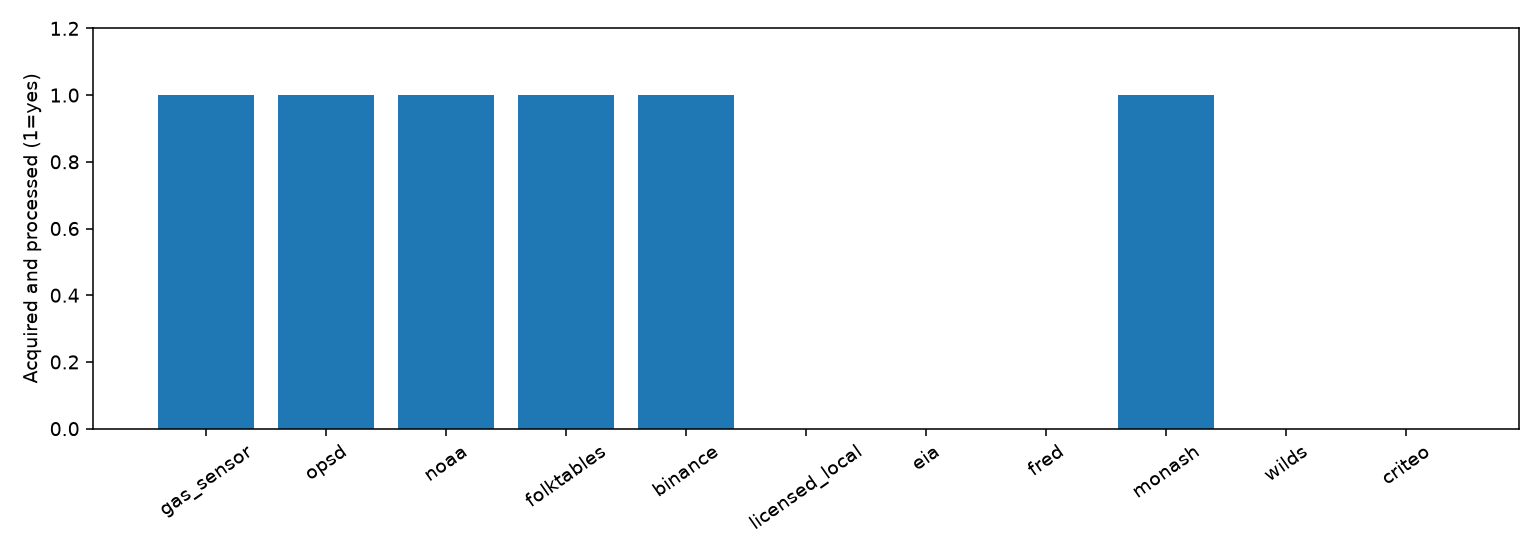
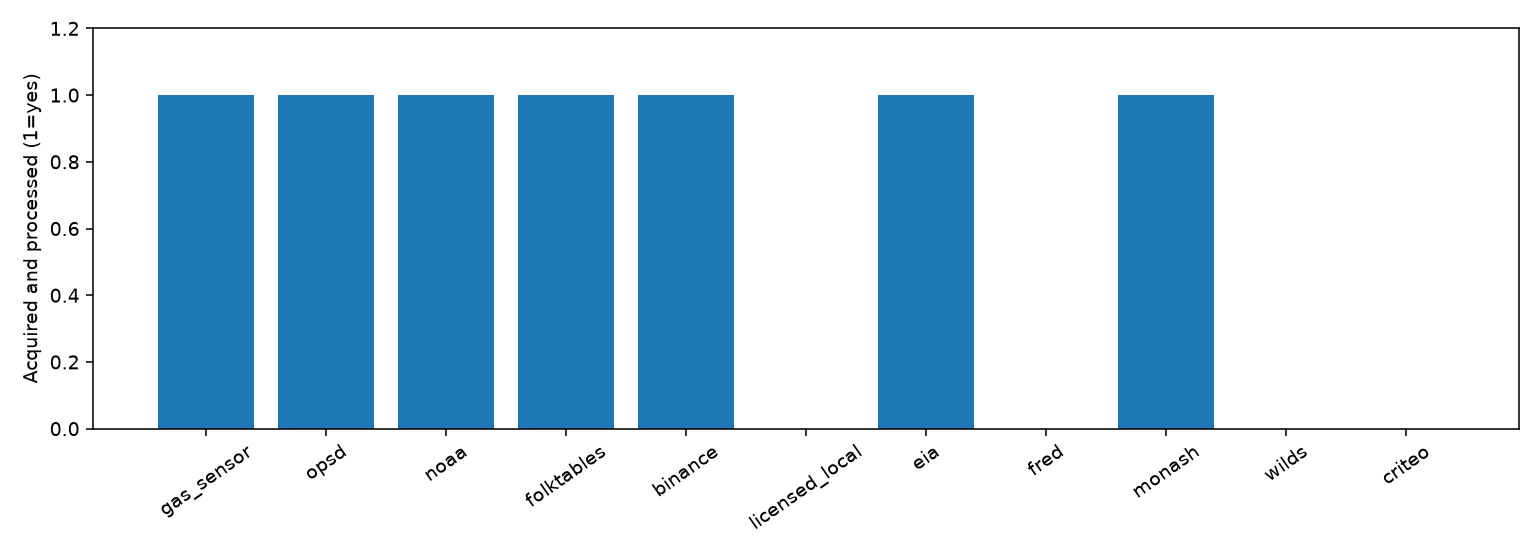
Publish EIA bulk acquisition evidence

Changed region(s): [[0.561, 0.1518, 0.6545, 0.7893]]

diff --git a/docs/phase1_completion_audit.md b/docs/phase1_completion_audit.md
@@ -22,7 +22,7 @@ and decision-stress controls. Full completion is still unproven.
 | E1: Folktables | CA/NY/TX/FL/NJ 2017–2018 panel acquired for all five tasks; 50 immutable task/domain contributions; four retrospective comparison designs per task; train-domain-only diagnostics and aggregate weighted/unweighted reports; compatibility evidence for rejected 2019 sources | Review task/version hashes and all 205 comparison records in `data/reports/folktables_panel`; no survey-design confidence intervals or causal attribution are claimed. The installed package's 2019 schema incompatibility is explicit. |
 | E2: gas | Ten batches, 13,910 rows, 128 features; actual per-batch class/missingness/feature tables and train-only classifier/probability/decision-loss evidence; rebuilt from cached publisher bytes as version `b90bcfbca00879f905f3`, with 13,910 finite class labels and a registered multiclass task spec | Unknown within-batch order prevents temporal inference; IID descriptive SE is explicitly qualified |
 | E3: OPSD | DE/DE-LU + DK_1 hourly/daily task configs with load/wind/solar/prices; overlapping coverage gate, full-day missingness, source definitions/UTC/local offsets and outcome-end purging | Price zones and country load remain distinct; availability unknown; bad early epoch version stays retired |
-| E4: EIA | Credentialed v2 adapter, paging, units/calendar gaps, sanitized snapshots; plus official keyless EBA bulk adapter with explicit 800 MB byte budget, streaming per-series JSON extraction, UTC window filtering, strict hourly horizon and immutable raw checksums; NYIS D/DF/NG/TI subset acquired for 2023-01-01 00 UTC through 2023-01-03 23 UTC, yielding 71 valid next-hour rows in `data/processed/eia/a07144c5f8769536d63c`; archive size 697,661,852 bytes and SHA-256 recorded in its receipt and `data/reports/acquisition_extensions.json` | API key is still required for API v2; broader date windows and respondent coverage require rerunning the full 700 MB archive extraction; historical publication availability remains unknown |
+| E4: EIA | Credentialed v2 adapter, paging, units/calendar gaps, sanitized snapshots; plus official keyless EBA bulk adapter with explicit 800 MB byte budget, streaming per-series JSON extraction, UTC window filtering, strict hourly horizon and immutable raw checksums; NYIS D/DF/NG/TI subset acquired for 2023-01-01 00 UTC through 2023-01-03 23 UTC, yielding 71 valid next-hour rows in `data/processed/eia/005fe168e548968a2d5d`; archive size 697,661,852 bytes and SHA-256 recorded in its receipt and `data/reports/acquisition_extensions.json` | API key is still required for API v2; broader date windows and respondent coverage require rerunning the full 700 MB archive extraction; historical publication availability remains unknown |
 | E5: NOAA | JFK/Boston/Chicago 2023 fixed panel acquired; seven weather/accumulation fields, flags, strict-later same-station outcomes and shared purged event-time splits | Availability remains unknown; irregular source horizons must not be described as strictly hourly forecasts |
 | E6: Monash | Five verified record mappings; TSF parser; official fixed-origin holdouts; M4 hourly, weekly and daily subsets executed with publisher MD5 checks; 20-series weekly/daily subsets preserve declared 13/14-step horizons | Electricity-hourly and weather archives omit `@horizon` and are explicitly refused for forecast conversion until an authoritative horizon is provided; no substituted horizon or invented covariates. Executed counts and source receipts are summarized in `data/reports/monash_execution.json`. |
 | E7: WILDS | Five lazy adapters; real package/metric fixture test; native-equivalent reduction compatibility | Live source certificate expired (upstream issue documented); do not bypass TLS or substitute another benchmark |
@@ -33,7 +33,7 @@ and decision-stress controls. Full completion is still unproven.
 | F: tasks | Registered forecast/quantile/volatility/excess/binary/multiclass tasks; `multi_step_forecast_task` builds past-only fixed-origin vectors with per-step outcome indices and finite-target masks; capacity/cost/abstention/bounded actions; new dataset manifest `task_specs` binds source targets, task kind, horizon semantics, valid-label masks, metrics, availability rules and utility provenance. Fixture-backed row-level mask/horizon checks cover OPSD hourly/daily, EIA, NOAA, Monash official holdouts, Criteo censoring, Binance next-bar returns, Folktables and WILDS; a fresh cached-raw UCI Gas rebuild produced 13,910 finite labels with a multiclass task manifest; FRED is explicitly a revision table, not a forecast task. Actual Monash hourly/daily/weekly fixed-origin horizons 48/14/13 are evaluated by forecast step in `data/reports/monash_forecast_diagnostics.json` | User-supplied/licensed task utilities remain explicitly ungrounded unless provided; real-source label availability is unknown where publishers do not provide verified release times |
 | G: diagnostics | Means/covariance/frequencies/KS, moving-block intervals; regression plot/report; Folktables retrospective group-domain metrics and imposed-cost decision loss; OPSD hourly/daily and three-station NOAA train-only regression, rolling loss, calibration-coverage and moving-block test-loss intervals in `data/reports/time_series_real_diagnostics.json`; Monash/M4 hourly, daily and weekly per-series/per-step Ridge vs naive baselines in `data/reports/monash_forecast_diagnostics.json` (Ridge beats last-value MASE in 8/10, 11/20 and 17/20 series); OPSD/NOAA rerun with half/sqrt/double block-length sensitivity | Time-series diagnostics are retrospective because label availability is unknown; daily OPSD loses to the mean baseline. Monash first-series subsets are deterministic and not population samples. No source-grounded decision utility is available for these continuous tasks; broader task coverage remains open |
 | H: GPU | RTX 4060 Laptop GPU tested on this host; CPU/CUDA float32/64 preservation, repeated-run determinism, statistical distribution parity and preprocessing parity; strict estimated per-chunk workspace bound with fail-fast when one row cannot fit; 36-run CPU/CUDA × float32/float64 × 1,000/5,000/10,000-row chunk sweep with three repeats per cell under a 128 MiB workspace budget in `data/reports/gpu_benchmark.csv`; 100 ms device-wide utilization/memory telemetry and per-repeat PyTorch peak allocation | Only one GPU model is available; device-wide telemetry is coarse/not process-specific, and some short cells produced only 2–4 samples. `memory_mb` excludes Python/Pandas RSS and O(n) schedule arrays. Preserve these scope bounds in future backend changes |
-| I: storage/provenance | Immutable Parquet/JSON, raw checksums/receipts, atomic publication, code hashes; strong ETag/If-Range or publisher-hash resume; length/budget/encoding gates tested; `scripts/audit_raw_provenance.py` checked all 141 raw-file references across 66 manifests, with 141 present checksums matching and zero missing or mismatching files | Repeat this local-byte audit after new acquisitions; unavailable live publisher inputs and publisher identity remain bounded by source-specific conditions under E |
+| I: storage/provenance | Immutable Parquet/JSON, raw checksums/receipts, atomic publication, code hashes; strong ETag/If-Range or publisher-hash resume; length/budget/encoding gates tested; `scripts/audit_raw_provenance.py` checked all 145 raw-file references across 68 manifests after the EIA bulk acquisition, with 145 present checksums matching and zero missing or mismatching files | Repeat this local-byte audit after new acquisitions; unavailable live publisher inputs and publisher identity remain bounded by source-specific conditions under E |
 | J: leakage | Future features/labels, chronological splits, training-only scaling, missingness and UTC/DST tests; storage now re-reads each Parquet row group before publication, checking schema/row invariants, global sample-ID uniqueness, and split chronology across row-group boundaries, with regression tests for duplicate IDs and reversed train/validation times; Criteo replay test confirms same-time requests precede feedback, future outcome edits do not affect requests, and missing delivery assumptions block replay | Extend replay checks to any additional adapter that supplies a verified prediction/feature-availability protocol; broader online calibration and preprocessing-fit protocol review remains |
 | K: statistics | Replicated oracle-risk and selected moment/quantile/autocorrelation tests; rare-event uncertainty corrected; five-seed covariate property report with 108 mechanism/severity/dimension records; target-shift report with 24 mechanism/severity records; five-seed concept residual-law report with 56 records; five-seed independent-probability and empirical Bernoulli calibration tests for nonlinear classification and boundary rotation; temporal stationarity and ten-pattern schedule reports; Monash per-series outcomes | Broaden independent per-generator analytic checks to remaining mechanisms and export additional executed statistical validation evidence |
 | L: reports | Aggregate quality/provenance/readiness/shift/baseline reports and plots rebuilt for 74 stored versions; zero validation errors; synthetic-validation and readiness rows identify immutable versions to disambiguate repeated configurations; NOAA figure visually inspected; historical summary explicitly labelled; fitted decision report regenerated for two policy classes across ten presets × five seeds; Monash fixed-origin report records per-series/per-step metrics for 50 series with manifest checksums and script hash; covariate, concept residual, target-shift and temporal-pattern evidence reports record replicated independent checks with explicit limitations | Complete remaining source/task and independent statistical evidence; immutable versions include historical duplicates and are not independent replicates |

diff --git a/data/reports/data_quality_report.md b/data/reports/data_quality_report.md
@@ -32,6 +32,8 @@ Unknown availability timestamps are retained as unknown. No automatic filling or
 - {"rows": 1000, "unknown_prediction_times": 0, "unknown_label_availability": 0, "missing_targets": 0, "dataset": "concept", "version": "e2461ffd1a6145cc5dd8", "feature_missing_rate": 0.0, "feature_infinite": 0, "min_feature": -2.964528837841651, "max_feature": 3.0885121948602836, "duplicate_feature_target_rows": 0, "ground_truth": "synthetic_known", "attribution": "Inconclusive: descriptive evidence does not identify drift mechanism"}
 - {"rows": 1000, "unknown_prediction_times": 0, "unknown_label_availability": 0, "missing_targets": 0, "dataset": "concept", "version": "e9fbb8e14cecd7a037cc", "feature_missing_rate": 0.0, "feature_infinite": 0, "min_feature": -2.964528837841651, "max_feature": 3.0885121948602836, "duplicate_feature_target_rows": 0, "ground_truth": "synthetic_known", "attribution": "Inconclusive: descriptive evidence does not identify drift mechanism"}
 - {"rows": 1000, "unknown_prediction_times": 0, "unknown_label_availability": 0, "missing_targets": 0, "dataset": "concept", "version": "ec3bdf1a271e675be5a8", "feature_missing_rate": 0.0, "feature_infinite": 0, "min_feature": -2.964528837841651, "max_feature": 3.0885121948602836, "duplicate_feature_target_rows": 0, "ground_truth": "synthetic_known", "attribution": "Inconclusive: descriptive evidence does not identify drift mechanism"}
+- {"rows": 71, "unknown_prediction_times": 71, "unknown_label_availability": 71, "missing_targets": 0, "dataset": "eia", "version": "005fe168e548968a2d5d", "feature_missing_rate": 0.0, "feature_infinite": 0, "min_feature": -4087.0, "max_feature": 18922.0, "duplicate_feature_target_rows": 0, "ground_truth": "none", "attribution": "Inconclusive: descriptive evidence does not identify drift mechanism"}
+- {"rows": 71, "unknown_prediction_times": 71, "unknown_label_availability": 71, "missing_targets": 0, "dataset": "eia", "version": "a07144c5f8769536d63c", "feature_missing_rate": 0.0, "feature_infinite": 0, "min_feature": -4087.0, "max_feature": 18922.0, "duplicate_feature_target_rows": 0, "ground_truth": "none", "attribution": "Inconclusive: descriptive evidence does not identify drift mechanism"}
 - {"rows": 5000, "unknown_prediction_times": 0, "unknown_label_availability": 789, "missing_targets": 0, "dataset": "feedback_change", "version": "7dc0f057b17388b0952b", "feature_missing_rate": 0.0, "feature_infinite": 0, "min_feature": -4.389114584864837, "max_feature": 4.0258240427272645, "duplicate_feature_target_rows": 0, "ground_truth": "synthetic_known", "attribution": "Inconclusive: descriptive evidence does not identify drift mechanism"}
 - {"rows": 51548, "unknown_prediction_times": 51548, "unknown_label_availability": 51548, "missing_targets": 0, "dataset": "folktables", "version": "1ba3057f0beb5eecb671", "feature_missing_rate": 0.0, "feature_infinite": 0, "min_feature": 0.0, "max_feature": 59300.0, "duplicate_feature_target_rows": 8, "ground_truth": "coarse_domains", "attribution": "Inconclusive: descriptive evidence does not identify drift mechanism"}
 - {"rows": 58061, "unknown_prediction_times": 58061, "unknown_label_availability": 58061, "missing_targets": 0, "dataset": "folktables", "version": "264d65dd2c805f899976", "feature_missing_rate": 0.0, "feature_infinite": 0, "min_feature": 0.0, "max_feature": 9830.0, "duplicate_feature_target_rows": 183, "ground_truth": "coarse_domains", "attribution": "Inconclusive: descriptive evidence does not identify drift mechanism"}

diff --git a/data/reports/experiment_readiness.md b/data/reports/experiment_readiness.md
@@ -22,6 +22,8 @@
 | `concept@e2461ffd1a6145cc5dd8` | controlled decision study | regression stream | stream ready | synthetic_known; known simulation clock |
 | `concept@e9fbb8e14cecd7a037cc` | controlled decision study | regression stream | stream ready | synthetic_known; known simulation clock |
 | `concept@ec3bdf1a271e675be5a8` | controlled decision study | regression stream | stream ready | synthetic_known; known simulation clock |
+| `eia@005fe168e548968a2d5d` | retrospective; utility imposed | requires task/availability protocol | requires availability/release protocol | none; historical/coarse; no true changes |
+| `eia@a07144c5f8769536d63c` | retrospective; utility imposed | requires task/availability protocol | requires availability/release protocol | none; historical/coarse; no true changes |
 | `feedback_change@7dc0f057b17388b0952b` | controlled decision study | regression stream | stream ready | synthetic_known; known simulation clock |
 | `folktables@1ba3057f0beb5eecb671` | offline classification only | requires task/availability protocol | requires availability/release protocol | coarse_domains; historical/coarse; no true changes |
 | `folktables@264d65dd2c805f899976` | offline classification only | requires task/availability protocol | requires availability/release protocol | coarse_domains; historical/coarse; no true changes |

diff --git a/docs/data_phase1.md b/docs/data_phase1.md
@@ -21,6 +21,7 @@ uv run python scripts/download_data.py --dataset gas_sensor
 uv run python scripts/download_data.py --dataset gas_sensor --execute
 uv run python scripts/download_data.py --dataset opsd --config configs/data/public/opsd.yaml --execute
 uv run python scripts/download_data.py --dataset noaa --config configs/data/public/noaa.yaml --execute
+uv run python scripts/download_data.py --dataset eia --config configs/data/public/eia_bulk.yaml --execute
 uv sync --extra dev --extra data-sources
 uv run --extra data-sources python scripts/download_data.py --dataset folktables --config configs/data/public/folktables.yaml --execute
 uv run python scripts/download_data.py --dataset binance --config configs/data/finance/binance.yaml --execute
